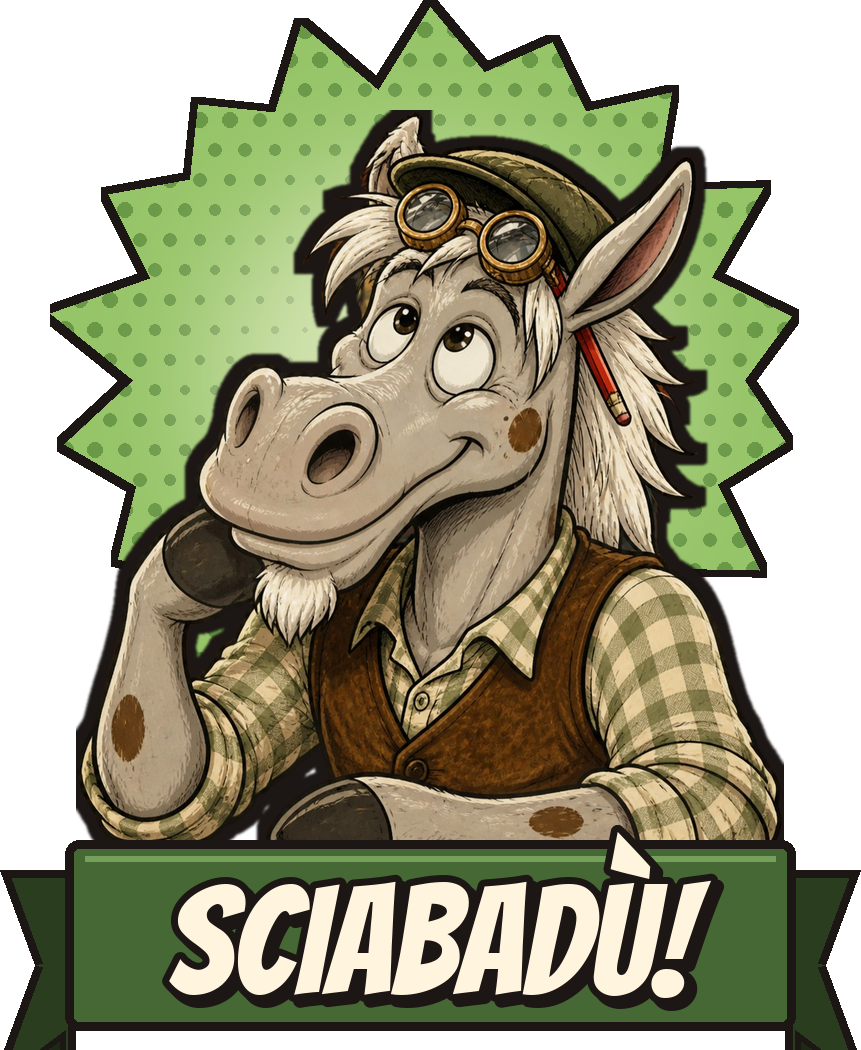
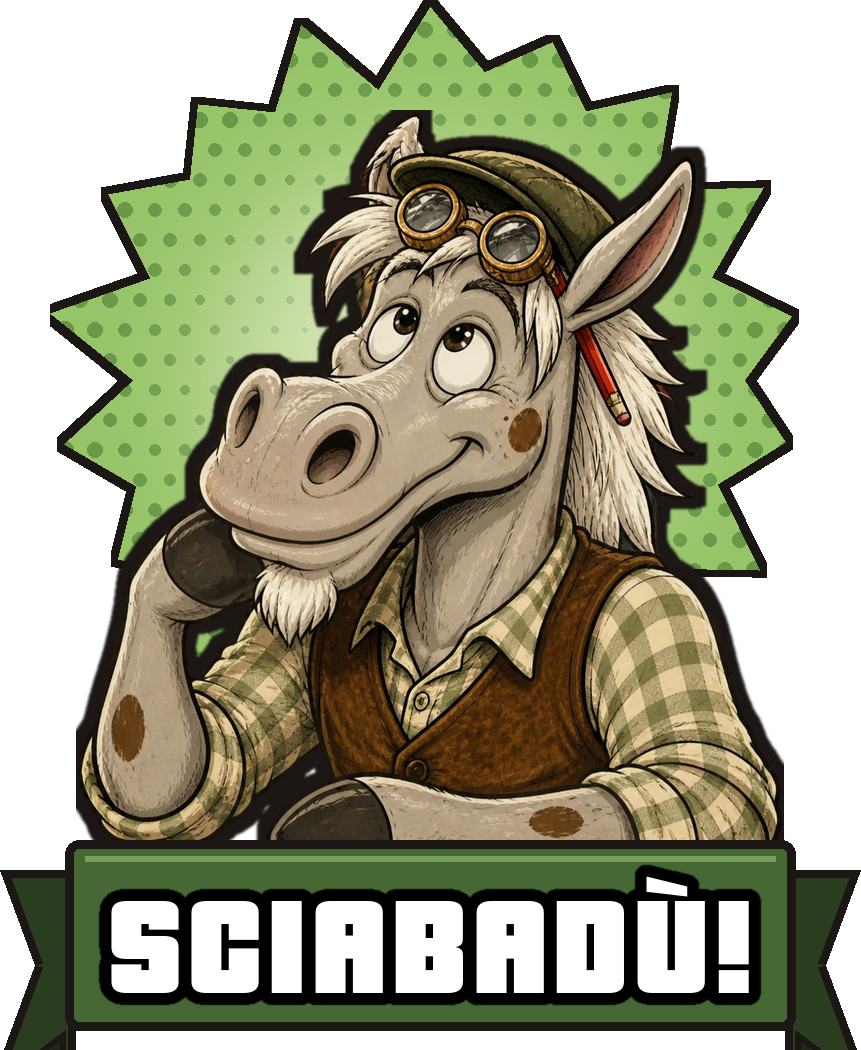
Tazze v2: scritte in Pricedown stile GTA (bianco con contorno nero), foto rifatte
Claude-Session: https://claude.ai/code/session_01HKwAmAJ5idGqfemGnxZNxi

Changed region(s): [[0.0906, 0.7924, 0.9059, 0.9752]]

diff --git a/gadget/tazze_v2/sorgenti/stampa_v2.py b/gadget/tazze_v2/sorgenti/stampa_v2.py
@@ -2,7 +2,7 @@
 import math, sys
 import numpy as np
 from PIL import Image, ImageDraw, ImageFont, ImageFilter, ImageChops
-FONT = "/mnt/project-files/gadget/Bangers.ttf"
+FONT = "/mnt/project-files/fonts/Pricedown_Bl.otf"
 CUT = sys.argv[1] if len(sys.argv) > 1 else "."
 OUT = sys.argv[2] if len(sys.argv) > 2 else "."
 W, H = 2717, 1146
@@ -47,6 +47,24 @@ def inchiostro(cut, px=9):
     cut = cut.copy(); cut.putalpha(ImageChops.multiply(cut.split()[3], a.filter(ImageFilter.GaussianBlur(0.8))))
     out.alpha_composite(cut); return out
 
+def scritta_gta(testo, f, sw, fill=(255, 255, 255)):
+    """Scritta Pricedown stile GTA: lettere bianche separate, contorno nero spesso, buchi delle lettere pieni di nero."""
+    from scipy import ndimage
+    d0 = ImageDraw.Draw(Image.new("L", (1, 1)))
+    track = int(sw * 0.55); xs = []; x = sw
+    for ch in testo:
+        xs.append(x); x += d0.textlength(ch, font=f) + (track if ch != " " else 0)
+    asc, desc = f.getmetrics(); W_ = int(x + sw * 2); H_ = asc + desc + sw * 2
+    im = Image.new("RGBA", (W_, H_), (0, 0, 0, 0))
+    for ch, cx in zip(testo, xs):
+        if ch == " ": continue
+        m = Image.new("L", (W_, H_), 0); ImageDraw.Draw(m).text((cx, sw + asc), ch, font=f, fill=255, anchor="ls", stroke_width=sw, stroke_fill=255)
+        m = Image.fromarray((ndimage.binary_fill_holes(np.array(m) > 127) * 255).astype("uint8")).filter(ImageFilter.GaussianBlur(0.7))
+        im.paste((0, 0, 0, 255), (0, 0), m)
+        fm = Image.new("L", (W_, H_), 0); ImageDraw.Draw(fm).text((cx, sw + asc), ch, font=f, fill=255, anchor="ls")
+        im.paste(fill + (255,), (0, 0), fm)
+    return im.crop(im.getbbox())
+
 def nastro(w, h, colore, righe, testo):
     """Nastro con code ripiegate."""
     pad = 70; im = Image.new("RGBA", (w + 2 * pad, h + 60), (0, 0, 0, 0)); d = ImageDraw.Draw(im)
@@ -60,14 +78,15 @@ def nastro(w, h, colore, righe, testo):
         d.polygon([(x, yb), (x - s * 0, yb + 30), (x + s * 40, yb + 30)], fill=tuple(int(v * .4) for v in colore), outline=INK, width=6)
     d.rounded_rectangle((pad, y0, pad + w, yb), 14, fill=colore, outline=INK, width=9)
     d.line((pad + 20, y0 + 18, pad + w - 20, y0 + 18), fill=tuple(min(255, int(v * 1.3) + 25) for v in colore), width=6)
-    n = len(righe); size = int(h / n * 0.80)
-    f = ImageFont.truetype(FONT, size)
-    while max(d.textlength(r, font=f) for r in righe) > w - 80:
-        size -= 4; f = ImageFont.truetype(FONT, size)
-    for i, r in enumerate(righe):
-        y = y0 + h * (i + 0.5) / n + 6
-        d.text((pad + w / 2 + 6, y + 6), r, font=f, fill=INK, anchor="mm", stroke_width=7, stroke_fill=INK)
-        d.text((pad + w / 2, y), r, font=f, fill=testo, anchor="mm", stroke_width=7, stroke_fill=INK)
+    n = len(righe); size = int(h / n * 1.25)
+    while True:
+        f = ImageFont.truetype(FONT, size); sw = max(10, int(size * 0.085))
+        ims = [scritta_gta(r, f, sw) for r in righe]
+        if max(i.width for i in ims) <= w - 60 and max(i.height for i in ims) <= h / n * 0.92: break
+        size -= 3
+    for i, t_ in enumerate(ims):
+        cy = y0 + h * (i + 0.5) / n
+        im.alpha_composite(t_, (int(pad + w / 2 - t_.width / 2), int(cy - t_.height / 2)))
     return im
 
 def disegno(t):
